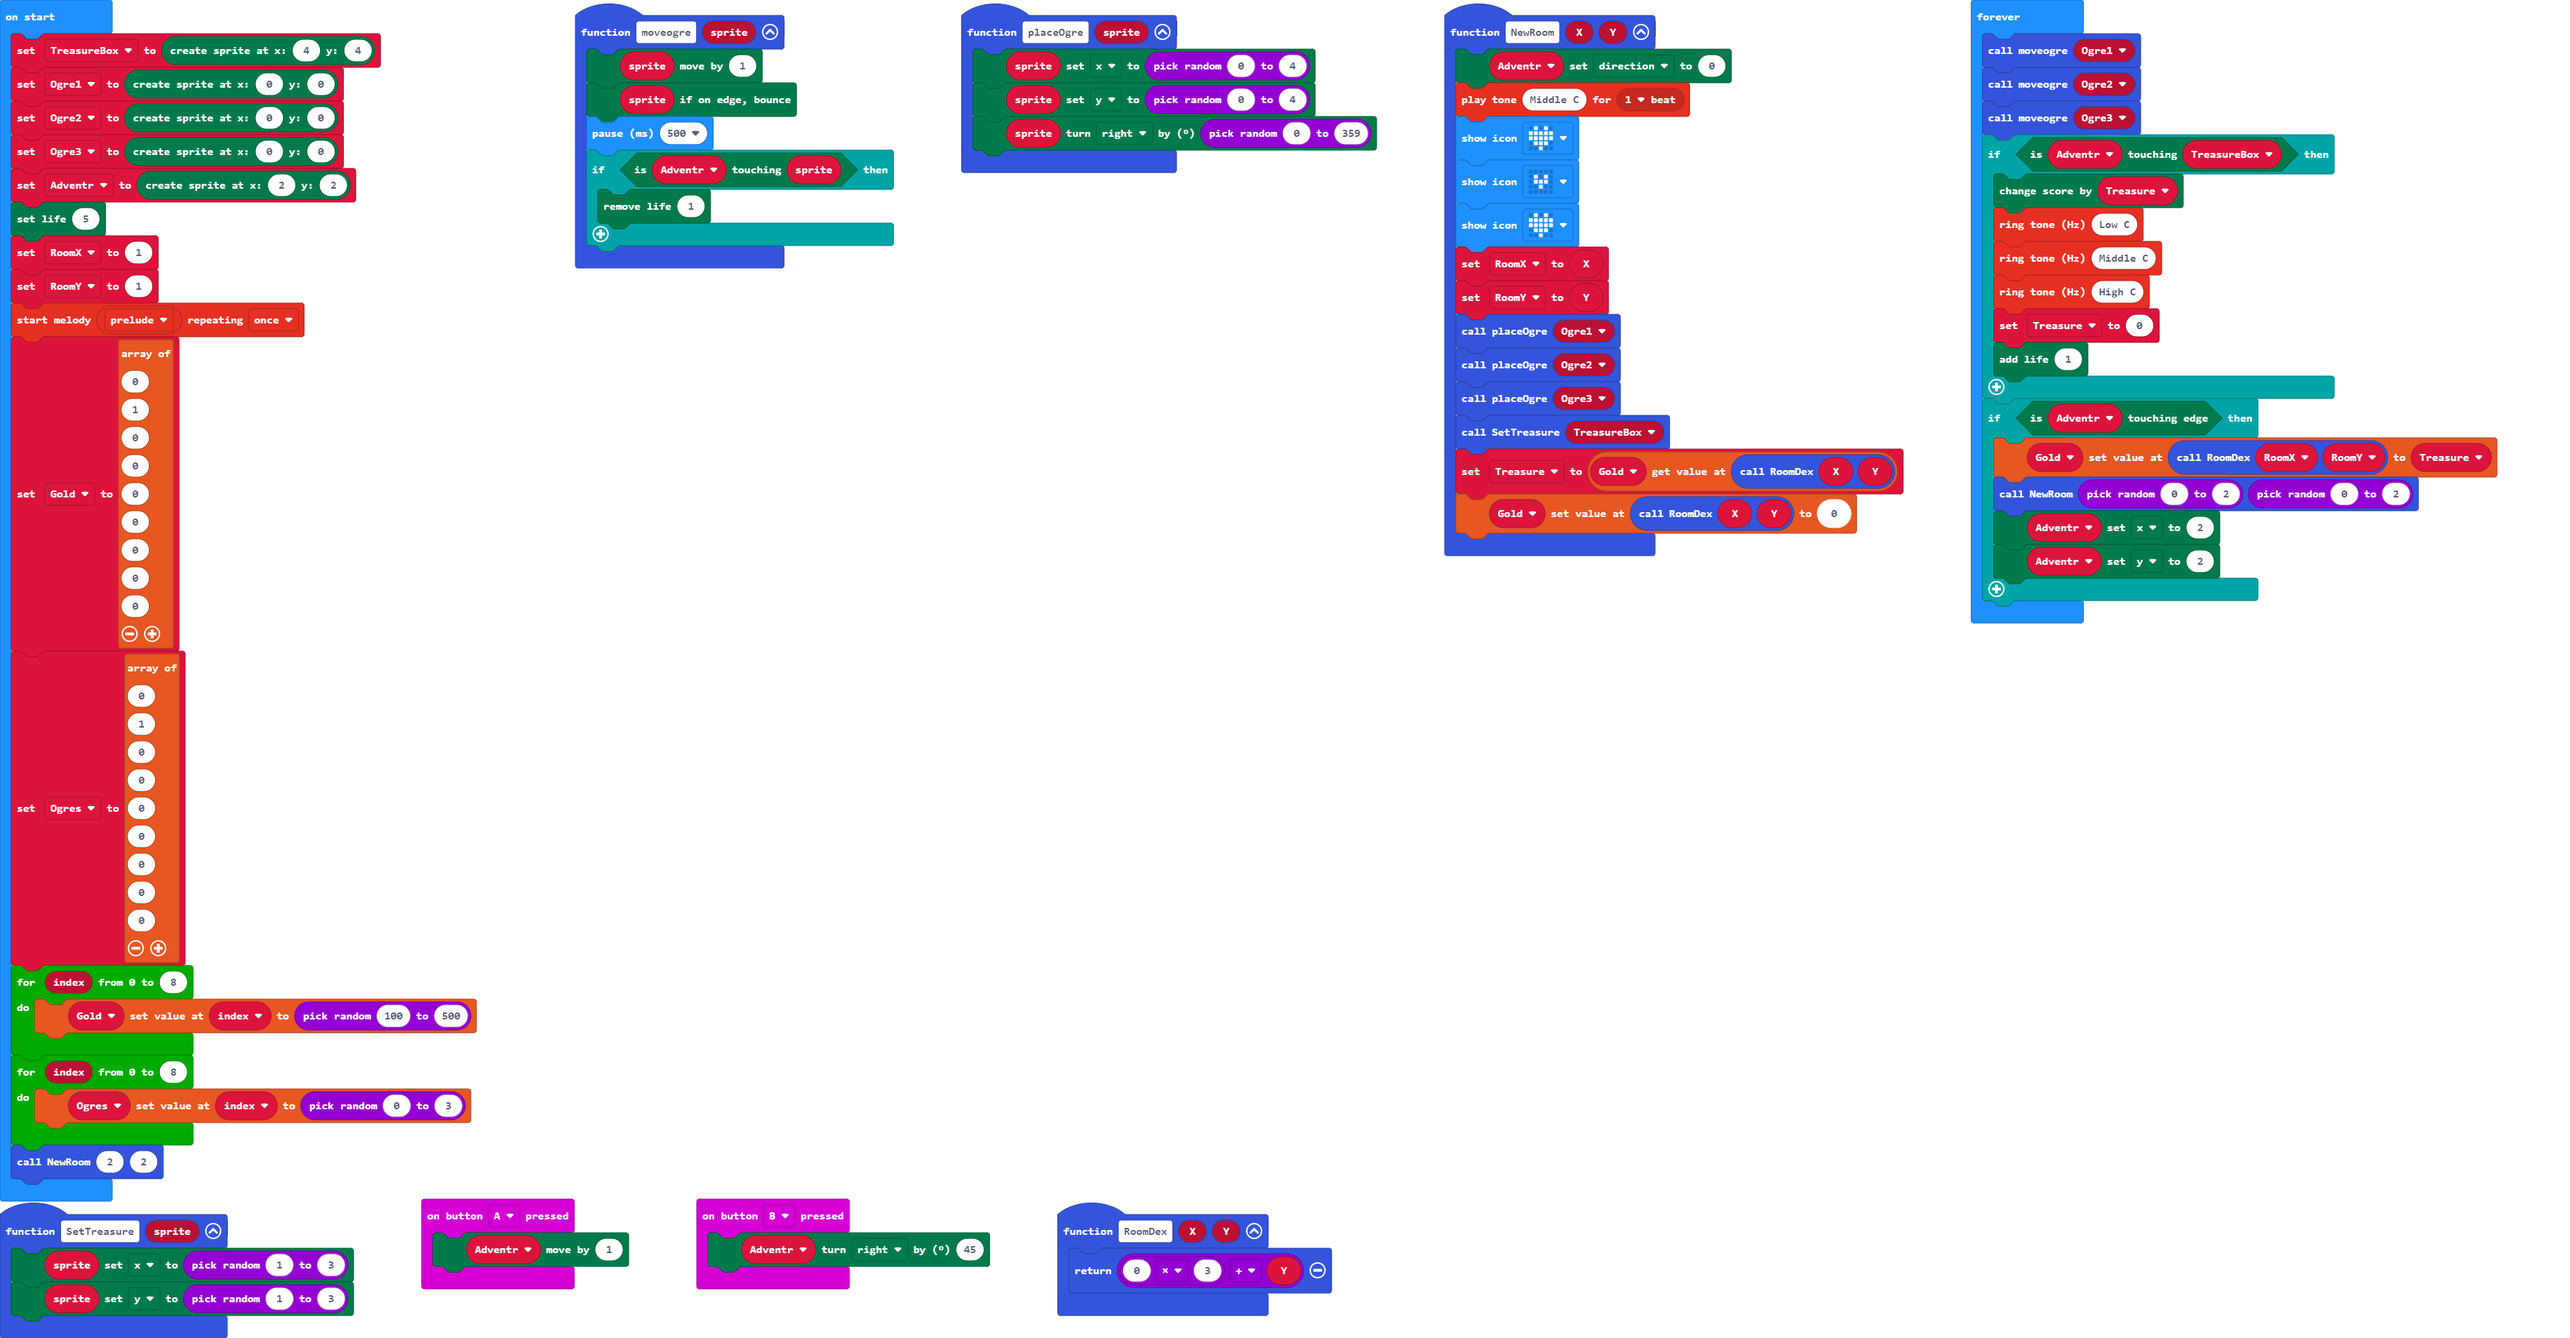
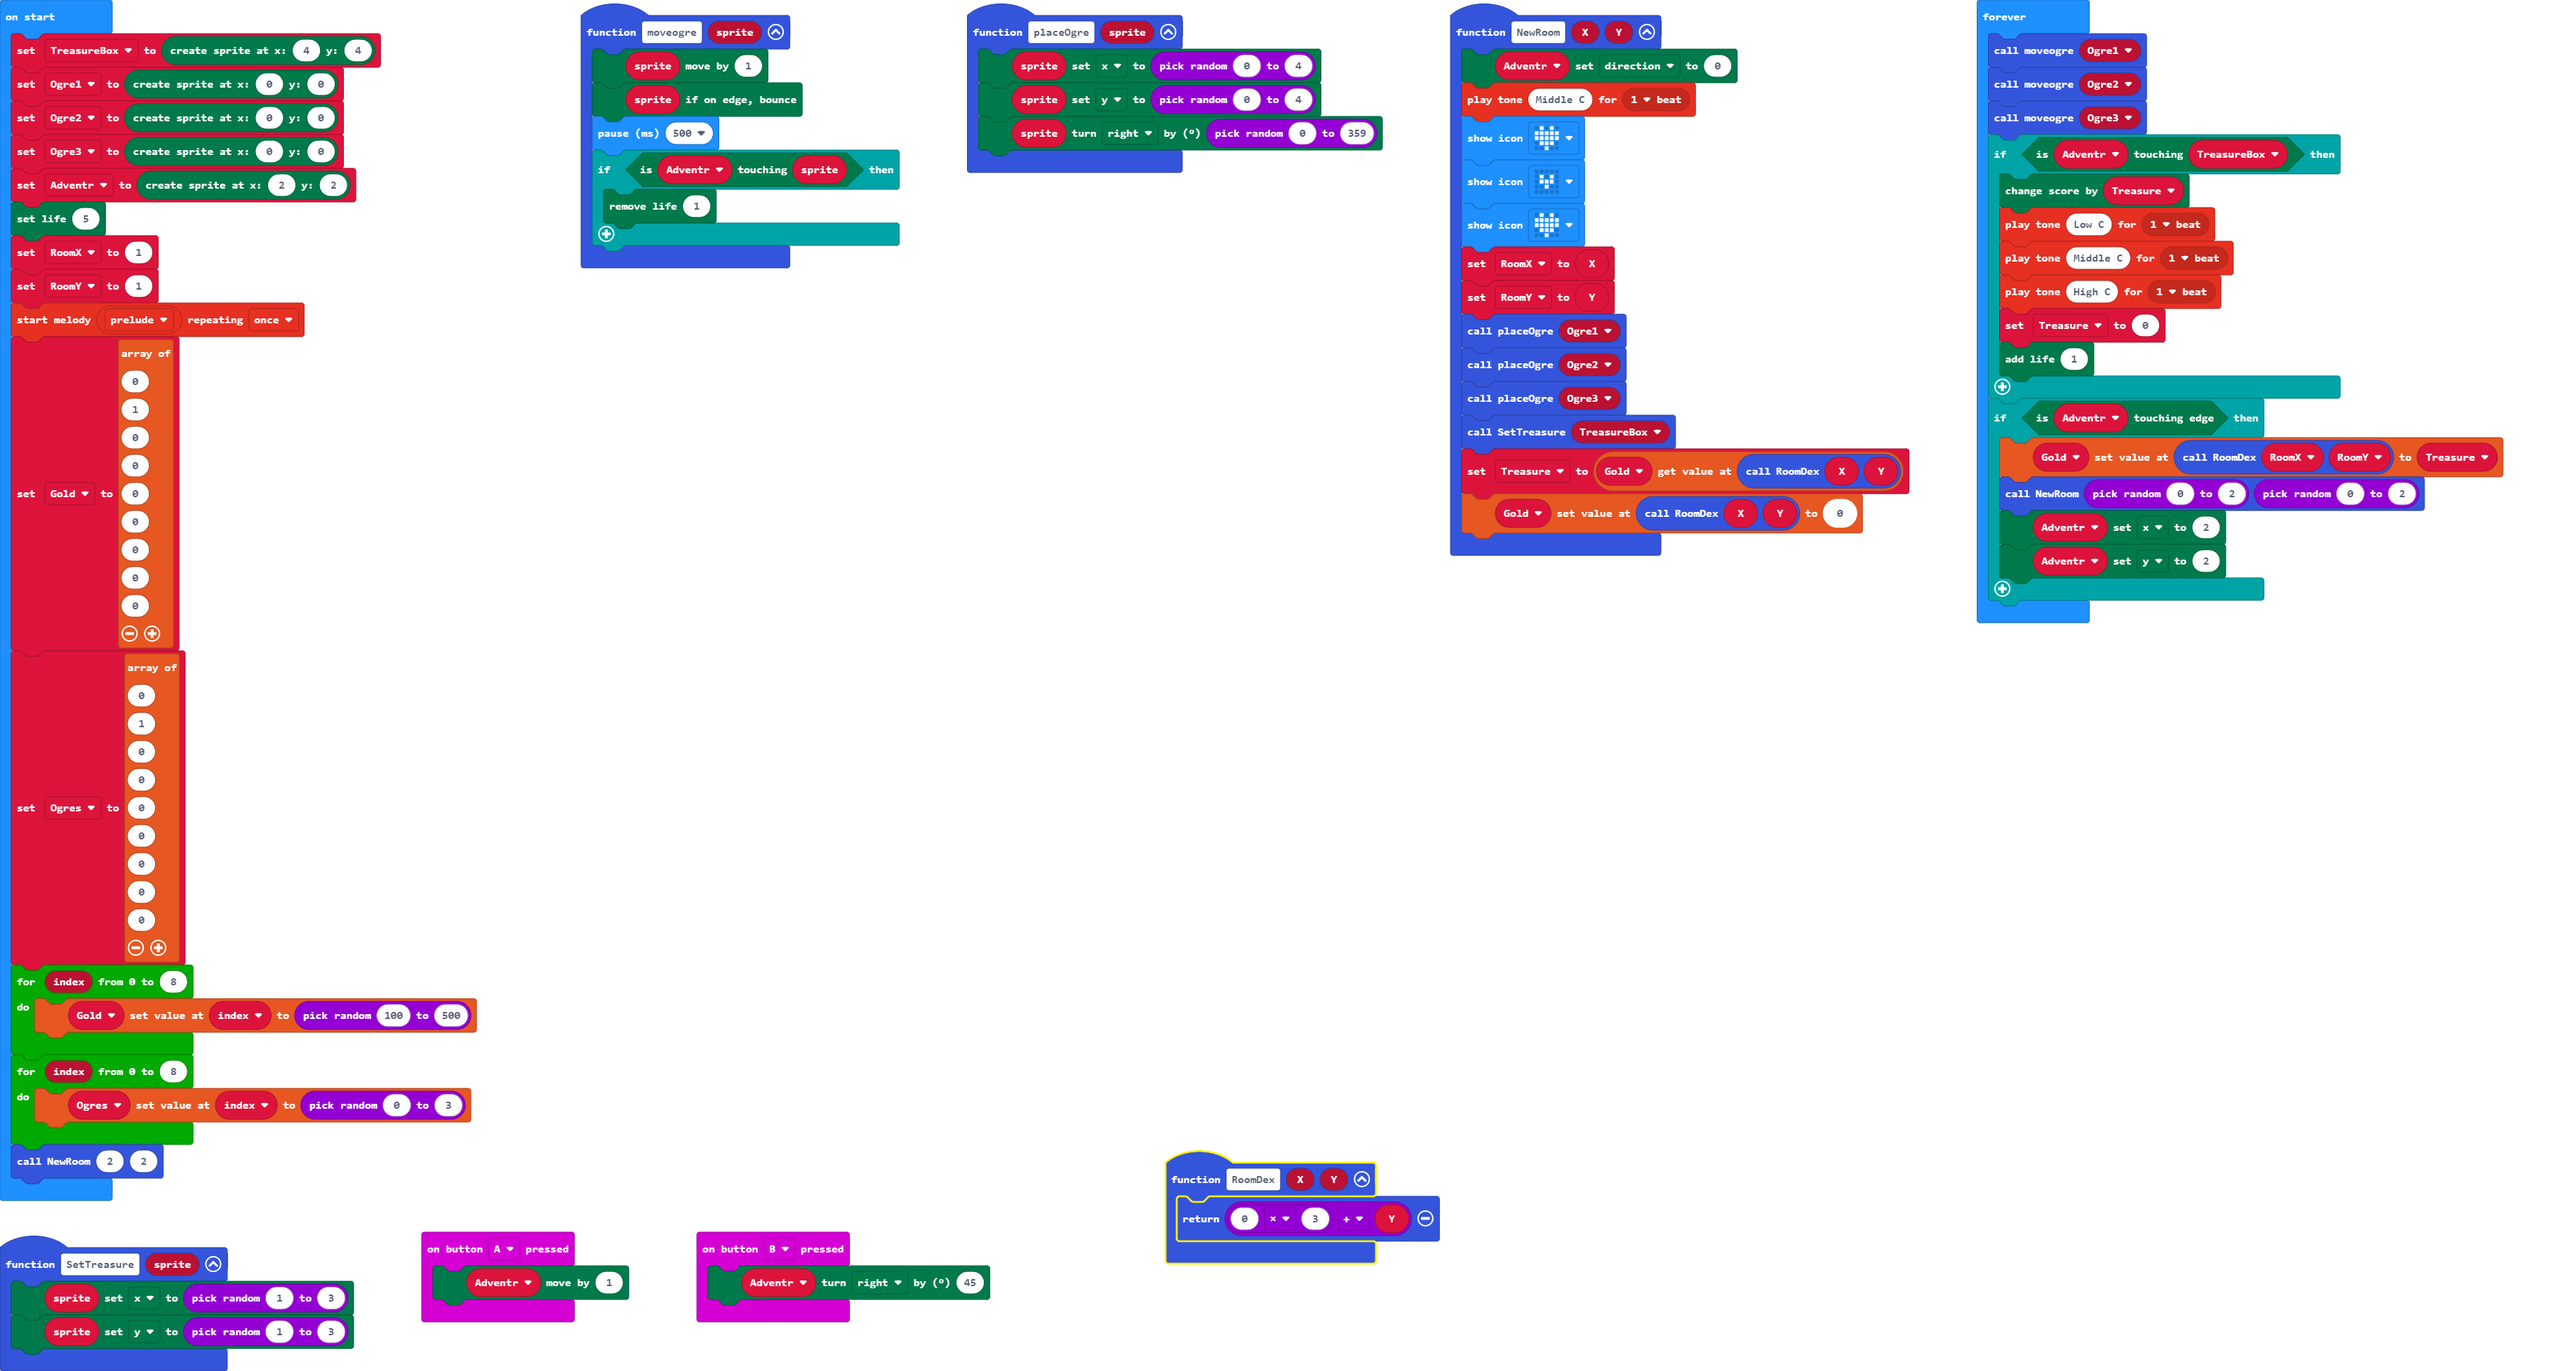
Update main.blocks, main.ts

diff --git a/main.ts b/main.ts
@@ -72,9 +72,9 @@ basic.forever(function () {
     moveogre(Ogre3)
     if (Adventr.isTouching(TreasureBox)) {
         game.addScore(Treasure)
-        music.ringTone(131)
-        music.ringTone(262)
-        music.ringTone(523)
+        music.playTone(131, music.beat(BeatFraction.Whole))
+        music.playTone(262, music.beat(BeatFraction.Whole))
+        music.playTone(523, music.beat(BeatFraction.Whole))
         Treasure = 0
         game.addLife(1)
     }
